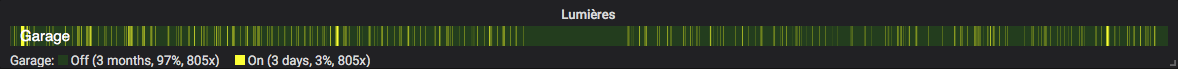
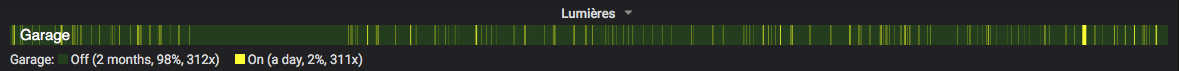
Added some elements

diff --git a/Eclairage.md b/Eclairage.md
@@ -23,12 +23,12 @@ Je n'ai pas de chiffres pour l'éclairage extérieur.
 Voici une photo de la Raspberry Pi (en F1) et des relais (en bas, en vert. 2 pour les lumières garage & parking, et deux autres pour contrôler les balons d'eau chaude. Ne pas tenir compte de l'inscription manuscrite, nous avons retiré un des boilers.)
 ![RPi garage]({{ "assets/ecl-garage.JPG" | absolute_path }})
 
-Pour la lumière du garage, je peux affirmer que cela fonctionne assez bien. En date du 1er avril 2018, sur les 90 derniers jours on peut clairement voir qu'il n'y a eu aucun faux positif pendant les 8 jours pendant lesquels nous sommes partis en vacances. Sur les 30 derniers jours, la lumière a été allumée en tout 3% du temps. Elle a été allumée 167 fois, soit 5,6 fois par jour en moyenne.
-![Lumière garage sur 30 jours]({{ "/assets/garage-30j.png" | absolute_path }})
+Pour la lumière du garage, je peux affirmer que cela fonctionne assez bien. Voici un graphique en date du 1er avril 2018, qui couvre les 90 derniers jours. On peut clairement voir qu'il n'y a eu aucun faux positif durant les 8 jours pendant lesquels nous sommes partis en vacances. Sur les 30 derniers jours, la lumière a été allumée en tout 3% du temps. Elle a été allumée 167 fois, soit 5,6 fois par jour en moyenne.
+![Lumière garage sur 90 jours]({{ "/assets/garage-90j.png" | absolute_path }})
 
 Voici une photo de l'arduino et de l'alimentation de PC qui contrôle la barre de led dans ma chambre. Ce montage a été fait en sachant qu'il serait temporaire (quelques mois avant que je ne quitte la maison). Merci de ne pas juger la propreté du câblage !
 ![Alim et arduino]({{ "assets/ecl-alim.JPG" | absolute_path }})
 
-Et voici deux photos montrant la barre de led ainsi que le résultat final.
+Et voici deux photos montrant la barre de led ainsi que le résultat final. Les barres plus foncées horizontales et verticales sont dues au fait que les LEDs sont dimmés par PWM. C'est totatlement invisible à l'oeuil nu.
 ![Barre de led]({{ "assets/ecl-barreled.JPG" | absolute_path }})
 ![Résultat]({{ "assets/ecl-final.JPG" | absolute_path }})

diff --git a/Android.md b/Android.md
@@ -9,8 +9,6 @@ Nous devions développer en équipe de quatre; j’ai eu l’occasion d’être 
 
 Lors de ce cours, nous avons également appris différentes manières de s'organiser pour réaliser un projet. Apprendre par exemple à penser en termes de résultats tangibles pour l'utilisateur final (concept d'user stories).
 
-@@@TODO
-
 <!--more-->
 ## Preuve
 ![Bitbucket]({{ "assets/lfsab1509-bitbucket.png" | absolute_path }})
